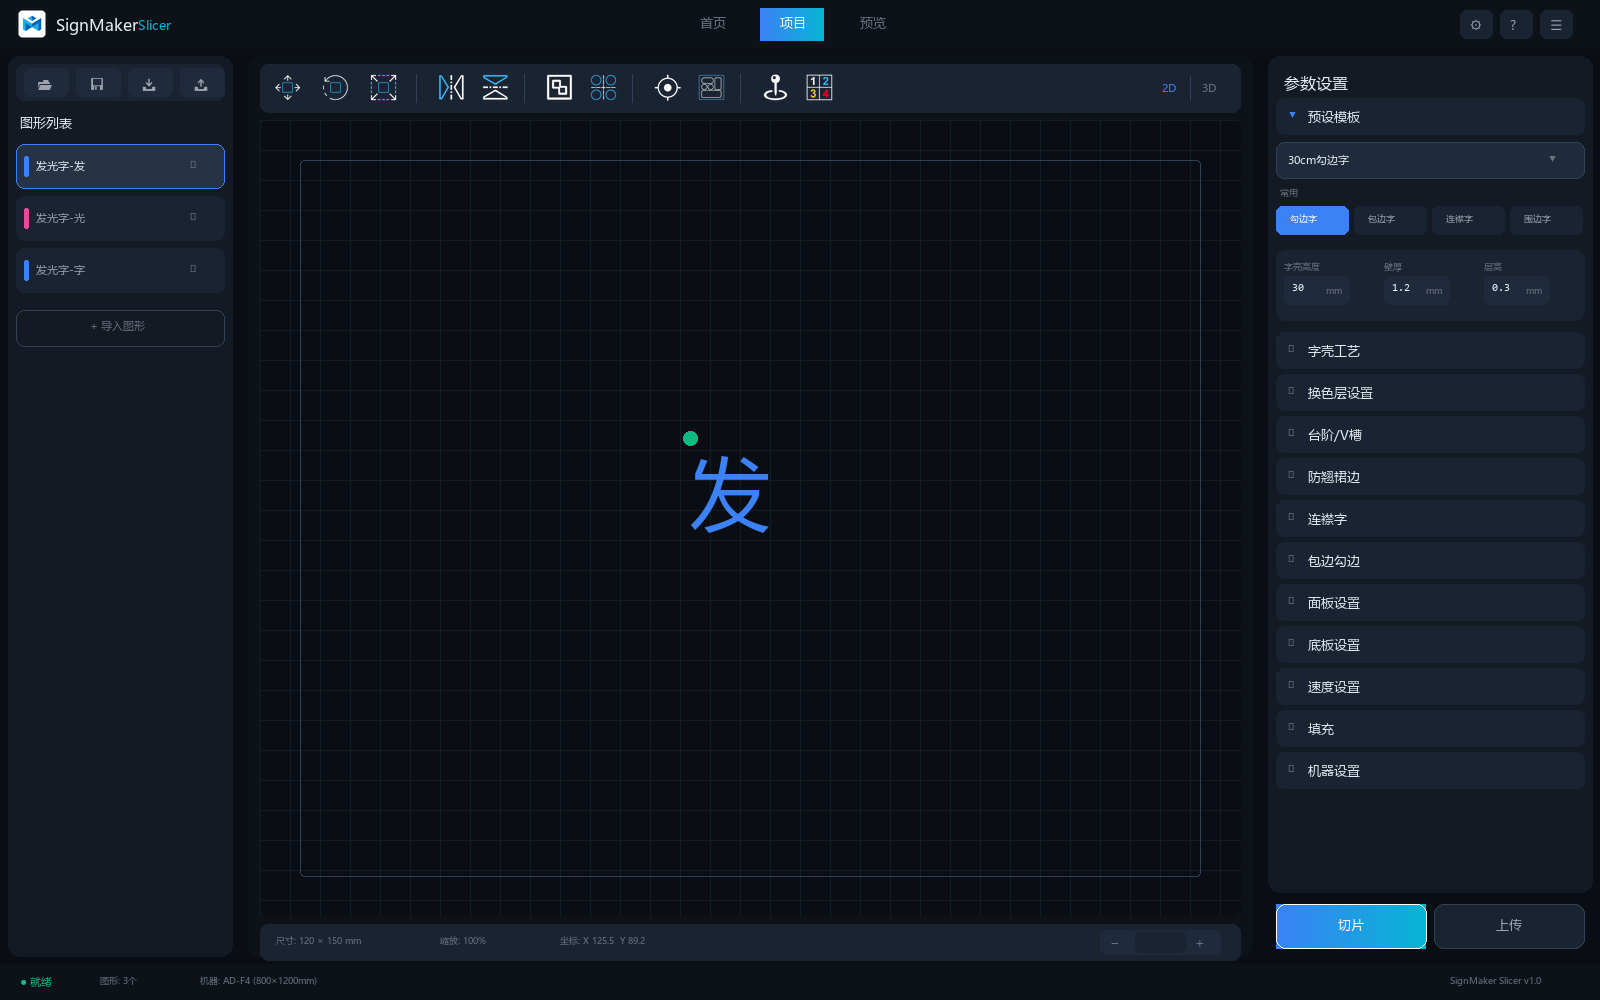
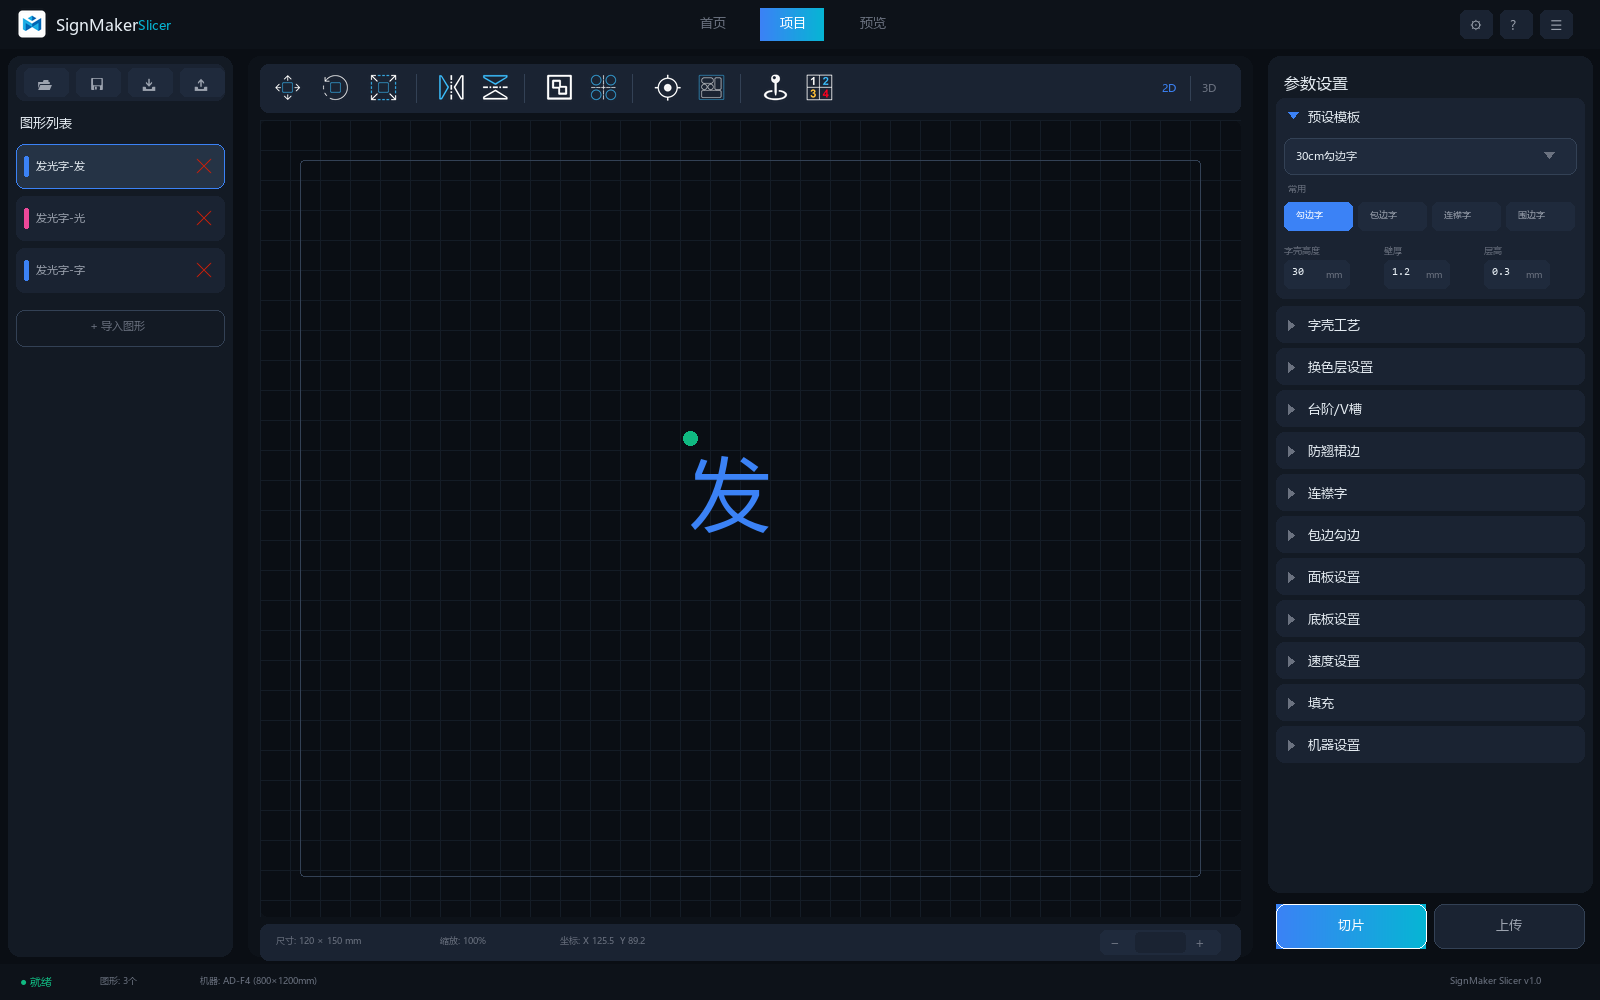
feat: 更新UI图标和删除不必要的图片文件

Changed region(s): [[0.8125, 0.31, 0.875, 0.775], [0.7812, 0.124, 0.875, 0.279], [0.9062, 0.248, 0.9375, 0.279]]

diff --git a/scripts/generate_ui_project_3d.py b/scripts/generate_ui_project_3d.py
@@ -148,6 +148,9 @@ for icon, tip in file_tools:
 # 图形列表标题
 draw_text(20, toolbar_y + 50, "图形列表", font_h2, C["text_primary"])
 
+# 图标目录
+icons_dir = os.path.join(os.path.dirname(__file__), "..", "docs", "images")
+
 # 图形项目
 shapes = [
     ("发光字-发", True, C["extruder_1"]),
@@ -163,7 +166,11 @@ for name, selected, color in shapes:
 
     draw_rounded_rect(24, shape_y + 12, 4, 20, 2, fill=color)
     draw_text(36, shape_y + 14, name, font_body, C["text_primary"] if selected else C["text_secondary"])
-    draw_text(SIDEBAR_LEFT_W - 50, shape_y + 14, "👁", font_small, C["text_muted"])
+    # 删除图标
+    delete_icon_path = os.path.join(icons_dir, "delete.png")
+    delete_icon = load_icon(delete_icon_path, 16)
+    if delete_icon:
+        img.paste(delete_icon, (SIDEBAR_LEFT_W - 44, shape_y + 14), delete_icon)
     shape_y += 52
 
 # 添加按钮
@@ -446,7 +453,7 @@ info_y = inner_canvas_y + inner_canvas_h + 8
 draw_rounded_rect(canvas_x + 20, info_y, canvas_w - 40, 36, 8, fill=C["bg_card"])
 draw_text(canvas_x + 36, info_y + 10, "尺寸: 120 × 150 × 30 mm", font_small, C["text_muted"])
 draw_text(canvas_x + 220, info_y + 10, "缩放: 100%", font_small, C["text_muted"])
-draw_text(canvas_x + 340, info_y + 10, "视角: 透视", font_mono, C["accent_secondary"])
+draw_text(canvas_x + 340, info_y + 10, "坐标: X 125.5  Y 89.2  Z 15.0", font_small, C["text_muted"])
 
 # 缩放控制
 zoom_x = canvas_x + canvas_w - 160
@@ -470,39 +477,44 @@ draw_text(right_x + 24, content_y + 24, "参数设置", font_h1, C["text_primary
 # ============================================
 preset_y = content_y + 50
 
-# 预设模板标题栏
-draw_rounded_rect(right_x + 16, preset_y, SIDEBAR_RIGHT_W - 32, 36, 8, fill=C["bg_card"])
-draw_text(right_x + 28, preset_y + 10, "▼", font_small, C["accent_primary"])
+# 预设模板容器背景（包含标题和内容）
+preset_content_h = 200  # 包含标题、下拉选择器、常用标签、快速参数
+draw_rounded_rect(right_x + 16, preset_y, SIDEBAR_RIGHT_W - 32, preset_content_h, 8, fill=C["bg_card"])
+
+# 预设模板标题栏 - 用polygon绘制向下三角形
+tri_x = right_x + 28
+tri_y = preset_y + 14
+draw.polygon([(tri_x, tri_y), (tri_x + 10, tri_y), (tri_x + 5, tri_y + 6)], fill=C["accent_primary"])
 draw_text(right_x + 48, preset_y + 10, "预设模板", font_h2, C["text_primary"])
 
 # 简洁下拉选择器
-preset_select_y = preset_y + 44
-draw_rounded_rect(right_x + 16, preset_select_y, SIDEBAR_RIGHT_W - 32, 36, 8, fill=C["bg_elevated"], outline=C["border_default"])
-draw_text(right_x + 28, preset_select_y + 10, "30cm勾边字", font_body, C["text_primary"])
-draw_text(right_x + SIDEBAR_RIGHT_W - 52, preset_select_y + 10, "▼", font_small, C["text_muted"])
+preset_select_y = preset_y + 40
+draw_rounded_rect(right_x + 24, preset_select_y, SIDEBAR_RIGHT_W - 48, 36, 8, fill=C["bg_elevated"], outline=C["border_default"])
+draw_text(right_x + 36, preset_select_y + 10, "30cm勾边字", font_body, C["text_primary"])
+# 下拉三角形
+dropdown_tri_x = right_x + SIDEBAR_RIGHT_W - 56
+dropdown_tri_y = preset_select_y + 14
+draw.polygon([(dropdown_tri_x, dropdown_tri_y), (dropdown_tri_x + 10, dropdown_tri_y), (dropdown_tri_x + 5, dropdown_tri_y + 6)], fill=C["text_muted"])
 
 # 常用模板快捷标签
 tag_y = preset_select_y + 44
-draw_text(right_x + 20, tag_y, "常用", font_small, C["text_muted"])
+draw_text(right_x + 28, tag_y, "常用", font_small, C["text_muted"])
 
 preset_tags = ["勾边字", "包边字", "连襟字", "围边字"]
-tag_x = right_x + 16
+tag_x = right_x + 24
 tag_row_y = tag_y + 20
 for i, tag in enumerate(preset_tags):
-    tag_w = 72
+    tag_w = 68
     if i == 0:  # 选中状态
         draw_rounded_rect(tag_x, tag_row_y, tag_w, 28, 6, fill=C["accent_primary"])
-        draw_text(tag_x + 14, tag_row_y + 6, tag, font_small, (255, 255, 255))
+        draw_text(tag_x + 12, tag_row_y + 6, tag, font_small, (255, 255, 255))
     else:
-        draw_rounded_rect(tag_x, tag_row_y, tag_w, 28, 6, fill=C["bg_card"])
-        draw_text(tag_x + 14, tag_row_y + 6, tag, font_small, C["text_secondary"])
+        draw_rounded_rect(tag_x, tag_row_y, tag_w, 28, 6, fill=C["bg_elevated"])
+        draw_text(tag_x + 12, tag_row_y + 6, tag, font_small, C["text_secondary"])
     tag_x += tag_w + 6
 
-# 快速设置卡片
-card_y = tag_row_y + 44
-draw_rounded_rect(right_x + 16, card_y, SIDEBAR_RIGHT_W - 32, 70, 10, fill=C["bg_card"])
-
 # 快速参数 - 紧凑布局
+card_y = tag_row_y + 36
 quick_params = [
     ("字壳高度", "30", "mm"),
     ("壁厚", "1.2", "mm"),
@@ -510,10 +522,10 @@ quick_params = [
 ]
 qp_x = right_x + 24
 for label, value, unit in quick_params:
-    draw_text(qp_x, card_y + 10, label, font_small, C["text_muted"])
-    draw_rounded_rect(qp_x, card_y + 26, 65, 28, 6, fill=C["bg_elevated"])
-    draw_text(qp_x + 8, card_y + 32, value, font_mono, C["text_primary"])
-    draw_text(qp_x + 42, card_y + 34, unit, font_small, C["text_muted"])
+    draw_text(qp_x, card_y + 6, label, font_small, C["text_muted"])
+    draw_rounded_rect(qp_x, card_y + 22, 65, 28, 6, fill=C["bg_elevated"])
+    draw_text(qp_x + 8, card_y + 28, value, font_mono, C["text_primary"])
+    draw_text(qp_x + 42, card_y + 30, unit, font_small, C["text_muted"])
     qp_x += 100
 
 # 可折叠参数组 - 全部折叠只显示标题
@@ -531,14 +543,22 @@ sections = [
     ("机器设置", False, []),
 ]
 
-section_y = card_y + 82
+section_y = preset_y + preset_content_h + 8
 for section_name, expanded, params in sections:
     # 分组标题
     draw_rounded_rect(right_x + 16, section_y, SIDEBAR_RIGHT_W - 32, 36, 8, fill=C["bg_card"])
 
-    # 展开/收起指示器
-    indicator = "▼" if expanded else "▶"
-    draw_text(right_x + 28, section_y + 10, indicator, font_small, C["accent_primary"] if expanded else C["text_muted"])
+    # 展开/收起指示器 - 用polygon绘制三角形
+    tri_x = right_x + 28
+    tri_y = section_y + 14
+    tri_color = C["accent_primary"] if expanded else C["text_muted"]
+    if expanded:
+        # 向下三角形
+        draw.polygon([(tri_x, tri_y), (tri_x + 10, tri_y), (tri_x + 5, tri_y + 6)], fill=tri_color)
+    else:
+        # 向右三角形
+        draw.polygon([(tri_x, tri_y), (tri_x + 6, tri_y + 5), (tri_x, tri_y + 10)], fill=tri_color)
+    
     draw_text(right_x + 48, section_y + 10, section_name, font_h2, C["text_primary"])
 
     section_y += 42

diff --git a/scripts/generate_ui_modern.py b/scripts/generate_ui_modern.py
@@ -173,6 +173,9 @@ for icon, tip in file_tools:
 # 图形列表标题
 draw_text(20, toolbar_y + 50, "图形列表", font_h2, C["text_primary"])
 
+# 图标目录
+icons_dir = os.path.join(os.path.dirname(__file__), "..", "docs", "images")
+
 # 图形项目
 shapes = [
     ("发光字-发", True, C["extruder_1"]),
@@ -190,8 +193,11 @@ for name, selected, color in shapes:
     draw_rounded_rect(24, shape_y + 12, 4, 20, 2, fill=color)
     draw_text(36, shape_y + 14, name, font_body, C["text_primary"] if selected else C["text_secondary"])
 
-    # 可见性图标
-    draw_text(SIDEBAR_LEFT_W - 50, shape_y + 14, "👁", font_small, C["text_muted"])
+    # 删除图标
+    delete_icon_path = os.path.join(icons_dir, "delete.png")
+    delete_icon = load_icon(delete_icon_path, 16)
+    if delete_icon:
+        img.paste(delete_icon, (SIDEBAR_LEFT_W - 44, shape_y + 14), delete_icon)
     shape_y += 52
 
 # 添加按钮
@@ -362,39 +368,44 @@ draw_text(right_x + 24, content_y + 24, "参数设置", font_h1, C["text_primary
 # ============================================
 preset_y = content_y + 50
 
-# 预设模板标题栏
-draw_rounded_rect(right_x + 16, preset_y, SIDEBAR_RIGHT_W - 32, 36, 8, fill=C["bg_card"])
-draw_text(right_x + 28, preset_y + 10, "▼", font_small, C["accent_primary"])
+# 预设模板容器背景（包含标题和内容）
+preset_content_h = 200  # 包含标题、下拉选择器、常用标签、快速参数
+draw_rounded_rect(right_x + 16, preset_y, SIDEBAR_RIGHT_W - 32, preset_content_h, 8, fill=C["bg_card"])
+
+# 预设模板标题栏 - 用polygon绘制向下三角形
+tri_x = right_x + 28
+tri_y = preset_y + 14
+draw.polygon([(tri_x, tri_y), (tri_x + 10, tri_y), (tri_x + 5, tri_y + 6)], fill=C["accent_primary"])
 draw_text(right_x + 48, preset_y + 10, "预设模板", font_h2, C["text_primary"])
 
 # 简洁下拉选择器
-preset_select_y = preset_y + 44
-draw_rounded_rect(right_x + 16, preset_select_y, SIDEBAR_RIGHT_W - 32, 36, 8, fill=C["bg_elevated"], outline=C["border_default"])
-draw_text(right_x + 28, preset_select_y + 10, "30cm勾边字", font_body, C["text_primary"])
-draw_text(right_x + SIDEBAR_RIGHT_W - 52, preset_select_y + 10, "▼", font_small, C["text_muted"])
+preset_select_y = preset_y + 40
+draw_rounded_rect(right_x + 24, preset_select_y, SIDEBAR_RIGHT_W - 48, 36, 8, fill=C["bg_elevated"], outline=C["border_default"])
+draw_text(right_x + 36, preset_select_y + 10, "30cm勾边字", font_body, C["text_primary"])
+# 下拉三角形
+dropdown_tri_x = right_x + SIDEBAR_RIGHT_W - 56
+dropdown_tri_y = preset_select_y + 14
+draw.polygon([(dropdown_tri_x, dropdown_tri_y), (dropdown_tri_x + 10, dropdown_tri_y), (dropdown_tri_x + 5, dropdown_tri_y + 6)], fill=C["text_muted"])
 
 # 常用模板快捷标签
 tag_y = preset_select_y + 44
-draw_text(right_x + 20, tag_y, "常用", font_small, C["text_muted"])
+draw_text(right_x + 28, tag_y, "常用", font_small, C["text_muted"])
 
 preset_tags = ["勾边字", "包边字", "连襟字", "围边字"]
-tag_x = right_x + 16
+tag_x = right_x + 24
 tag_row_y = tag_y + 20
 for i, tag in enumerate(preset_tags):
-    tag_w = 72
+    tag_w = 68
     if i == 0:  # 选中状态
         draw_rounded_rect(tag_x, tag_row_y, tag_w, 28, 6, fill=C["accent_primary"])
-        draw_text(tag_x + 14, tag_row_y + 6, tag, font_small, (255, 255, 255))
+        draw_text(tag_x + 12, tag_row_y + 6, tag, font_small, (255, 255, 255))
     else:
-        draw_rounded_rect(tag_x, tag_row_y, tag_w, 28, 6, fill=C["bg_card"])
-        draw_text(tag_x + 14, tag_row_y + 6, tag, font_small, C["text_secondary"])
+        draw_rounded_rect(tag_x, tag_row_y, tag_w, 28, 6, fill=C["bg_elevated"])
+        draw_text(tag_x + 12, tag_row_y + 6, tag, font_small, C["text_secondary"])
     tag_x += tag_w + 6
 
-# 快速设置卡片
-card_y = tag_row_y + 44
-draw_rounded_rect(right_x + 16, card_y, SIDEBAR_RIGHT_W - 32, 70, 10, fill=C["bg_card"])
-
 # 快速参数 - 紧凑布局
+card_y = tag_row_y + 36
 quick_params = [
     ("字壳高度", "30", "mm"),
     ("壁厚", "1.2", "mm"),
@@ -402,10 +413,10 @@ quick_params = [
 ]
 qp_x = right_x + 24
 for label, value, unit in quick_params:
-    draw_text(qp_x, card_y + 10, label, font_small, C["text_muted"])
-    draw_rounded_rect(qp_x, card_y + 26, 65, 28, 6, fill=C["bg_elevated"])
-    draw_text(qp_x + 8, card_y + 32, value, font_mono, C["text_primary"])
-    draw_text(qp_x + 42, card_y + 34, unit, font_small, C["text_muted"])
+    draw_text(qp_x, card_y + 6, label, font_small, C["text_muted"])
+    draw_rounded_rect(qp_x, card_y + 22, 65, 28, 6, fill=C["bg_elevated"])
+    draw_text(qp_x + 8, card_y + 28, value, font_mono, C["text_primary"])
+    draw_text(qp_x + 42, card_y + 30, unit, font_small, C["text_muted"])
     qp_x += 100
 
 # 可折叠参数组 - 全部折叠只显示标题
@@ -423,14 +434,22 @@ sections = [
     ("机器设置", False, []),
 ]
 
-section_y = card_y + 82
+section_y = preset_y + preset_content_h + 8
 for section_name, expanded, params in sections:
     # 分组标题
     draw_rounded_rect(right_x + 16, section_y, SIDEBAR_RIGHT_W - 32, 36, 8, fill=C["bg_card"])
 
-    # 展开/收起指示器
-    indicator = "▼" if expanded else "▶"
-    draw_text(right_x + 28, section_y + 10, indicator, font_small, C["accent_primary"] if expanded else C["text_muted"])
+    # 展开/收起指示器 - 用polygon绘制三角形
+    tri_x = right_x + 28
+    tri_y = section_y + 14
+    tri_color = C["accent_primary"] if expanded else C["text_muted"]
+    if expanded:
+        # 向下三角形
+        draw.polygon([(tri_x, tri_y), (tri_x + 10, tri_y), (tri_x + 5, tri_y + 6)], fill=tri_color)
+    else:
+        # 向右三角形
+        draw.polygon([(tri_x, tri_y), (tri_x + 6, tri_y + 5), (tri_x, tri_y + 10)], fill=tri_color)
+    
     draw_text(right_x + 48, section_y + 10, section_name, font_h2, C["text_primary"])
 
     section_y += 42
